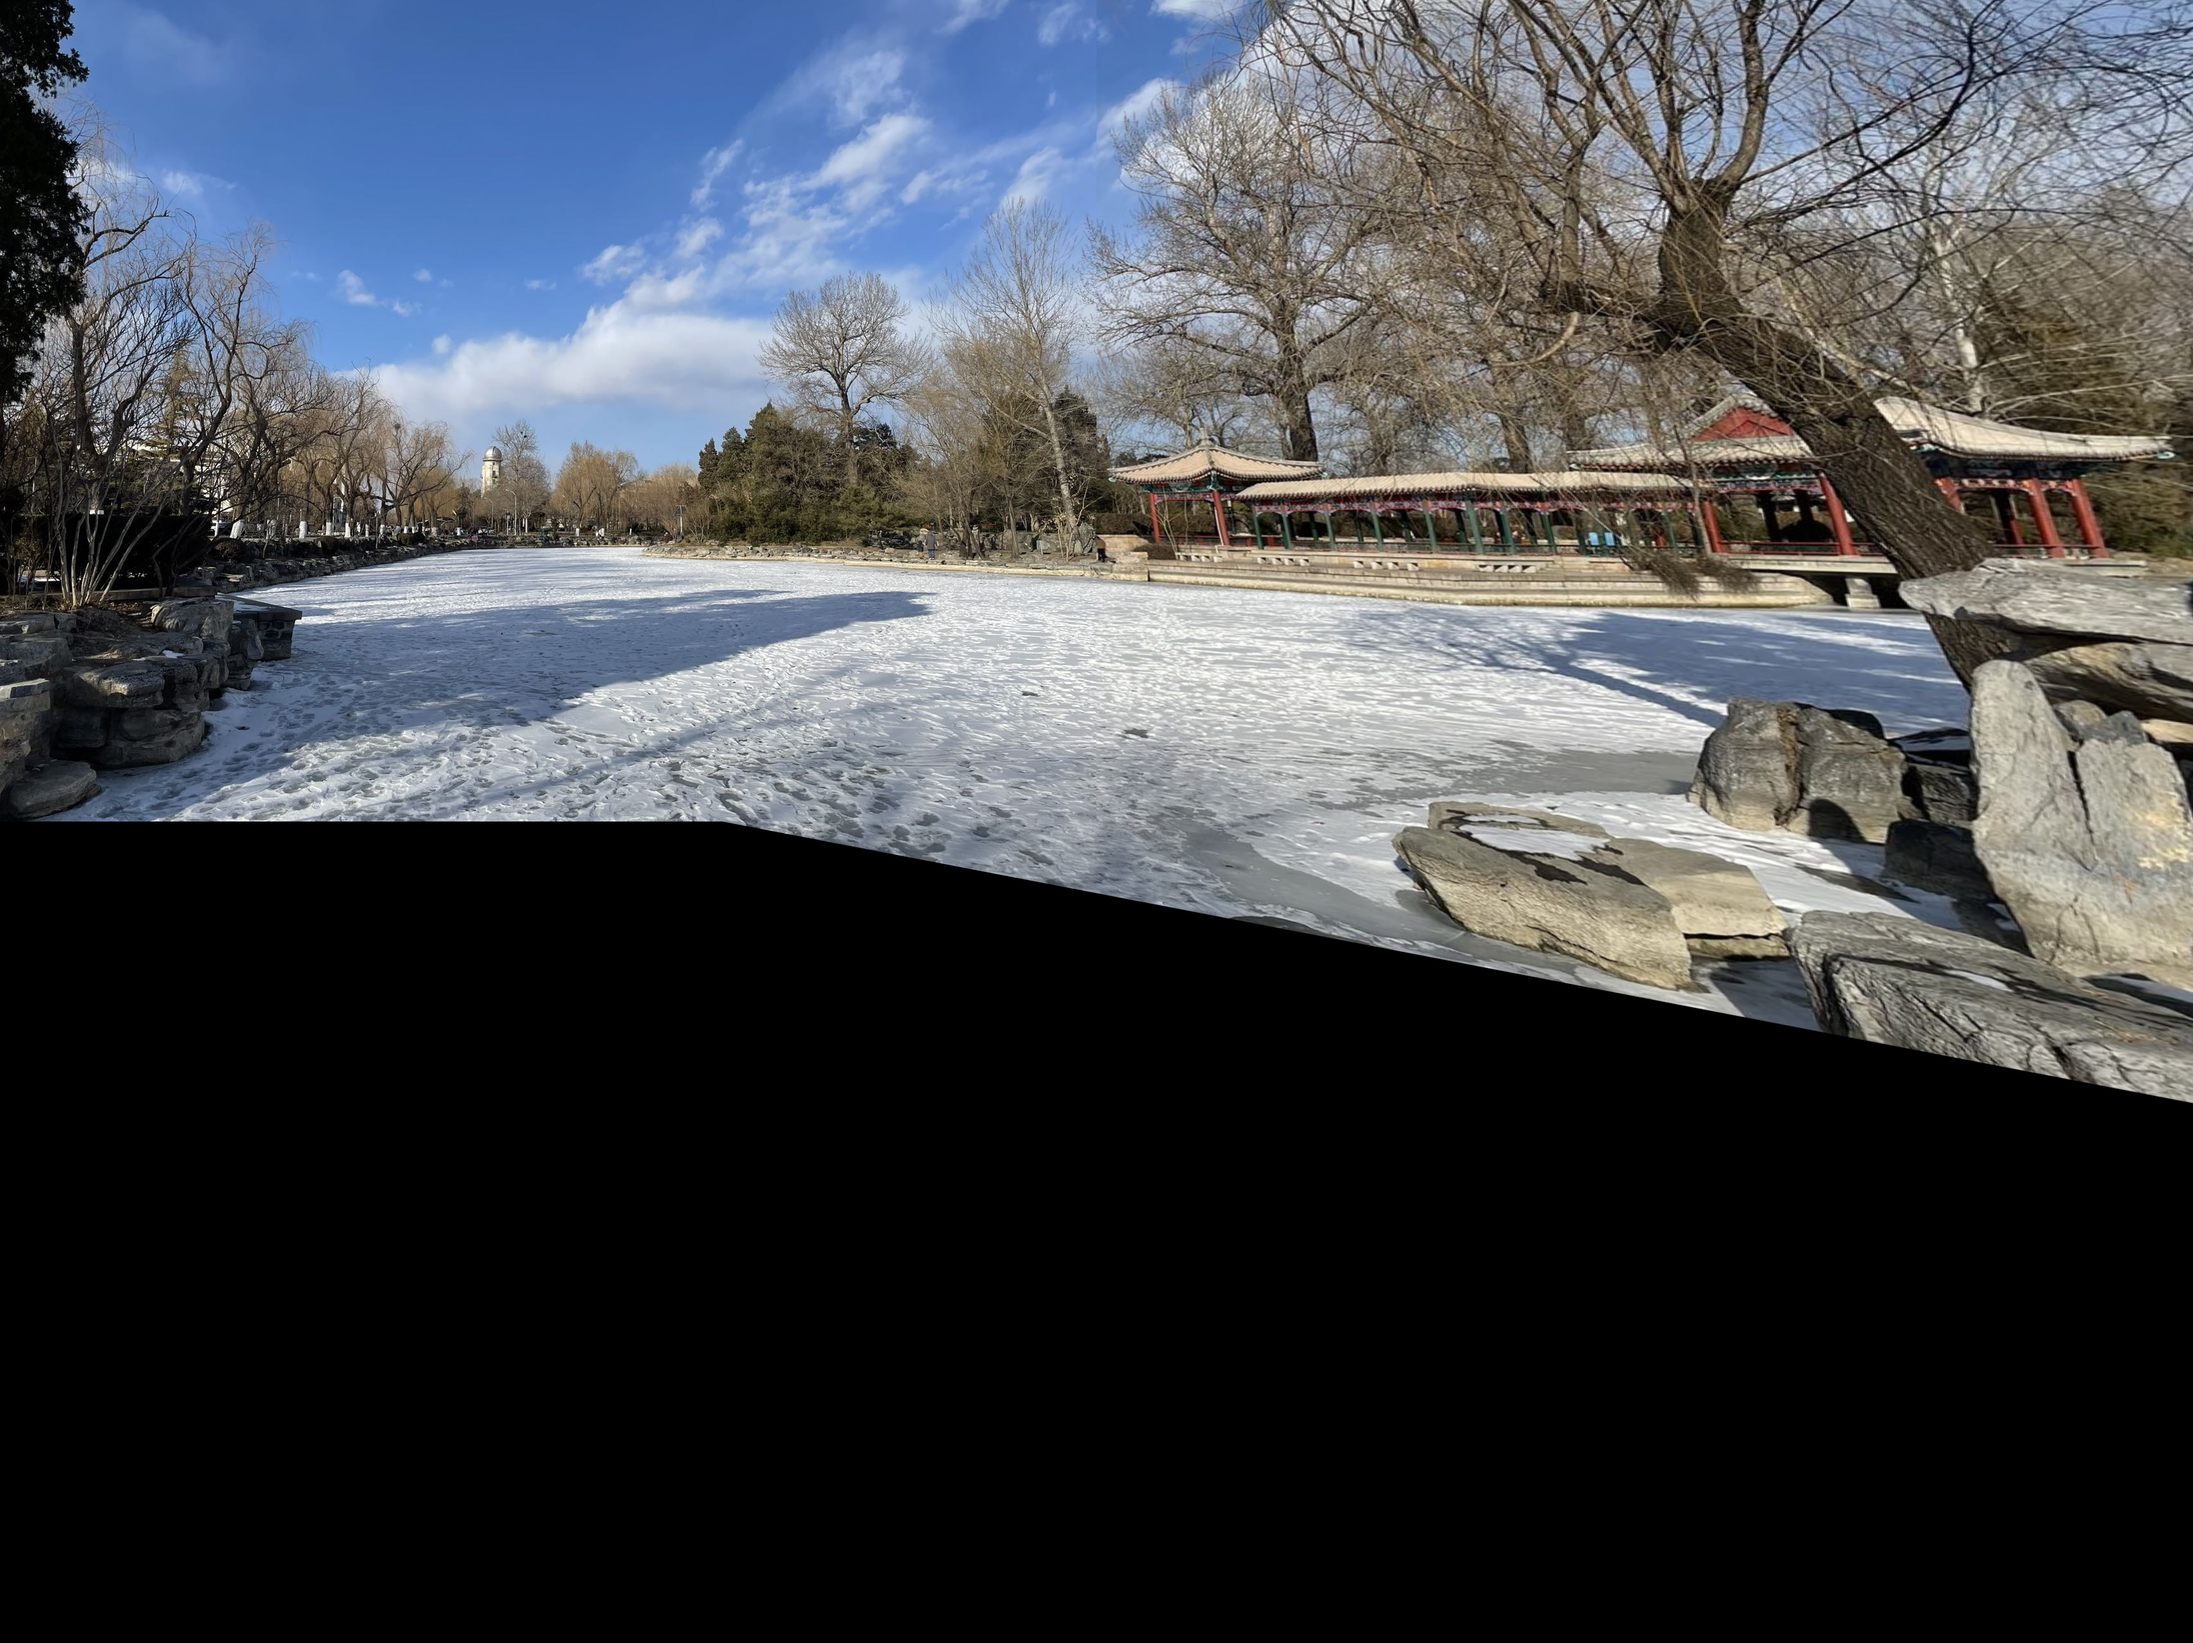
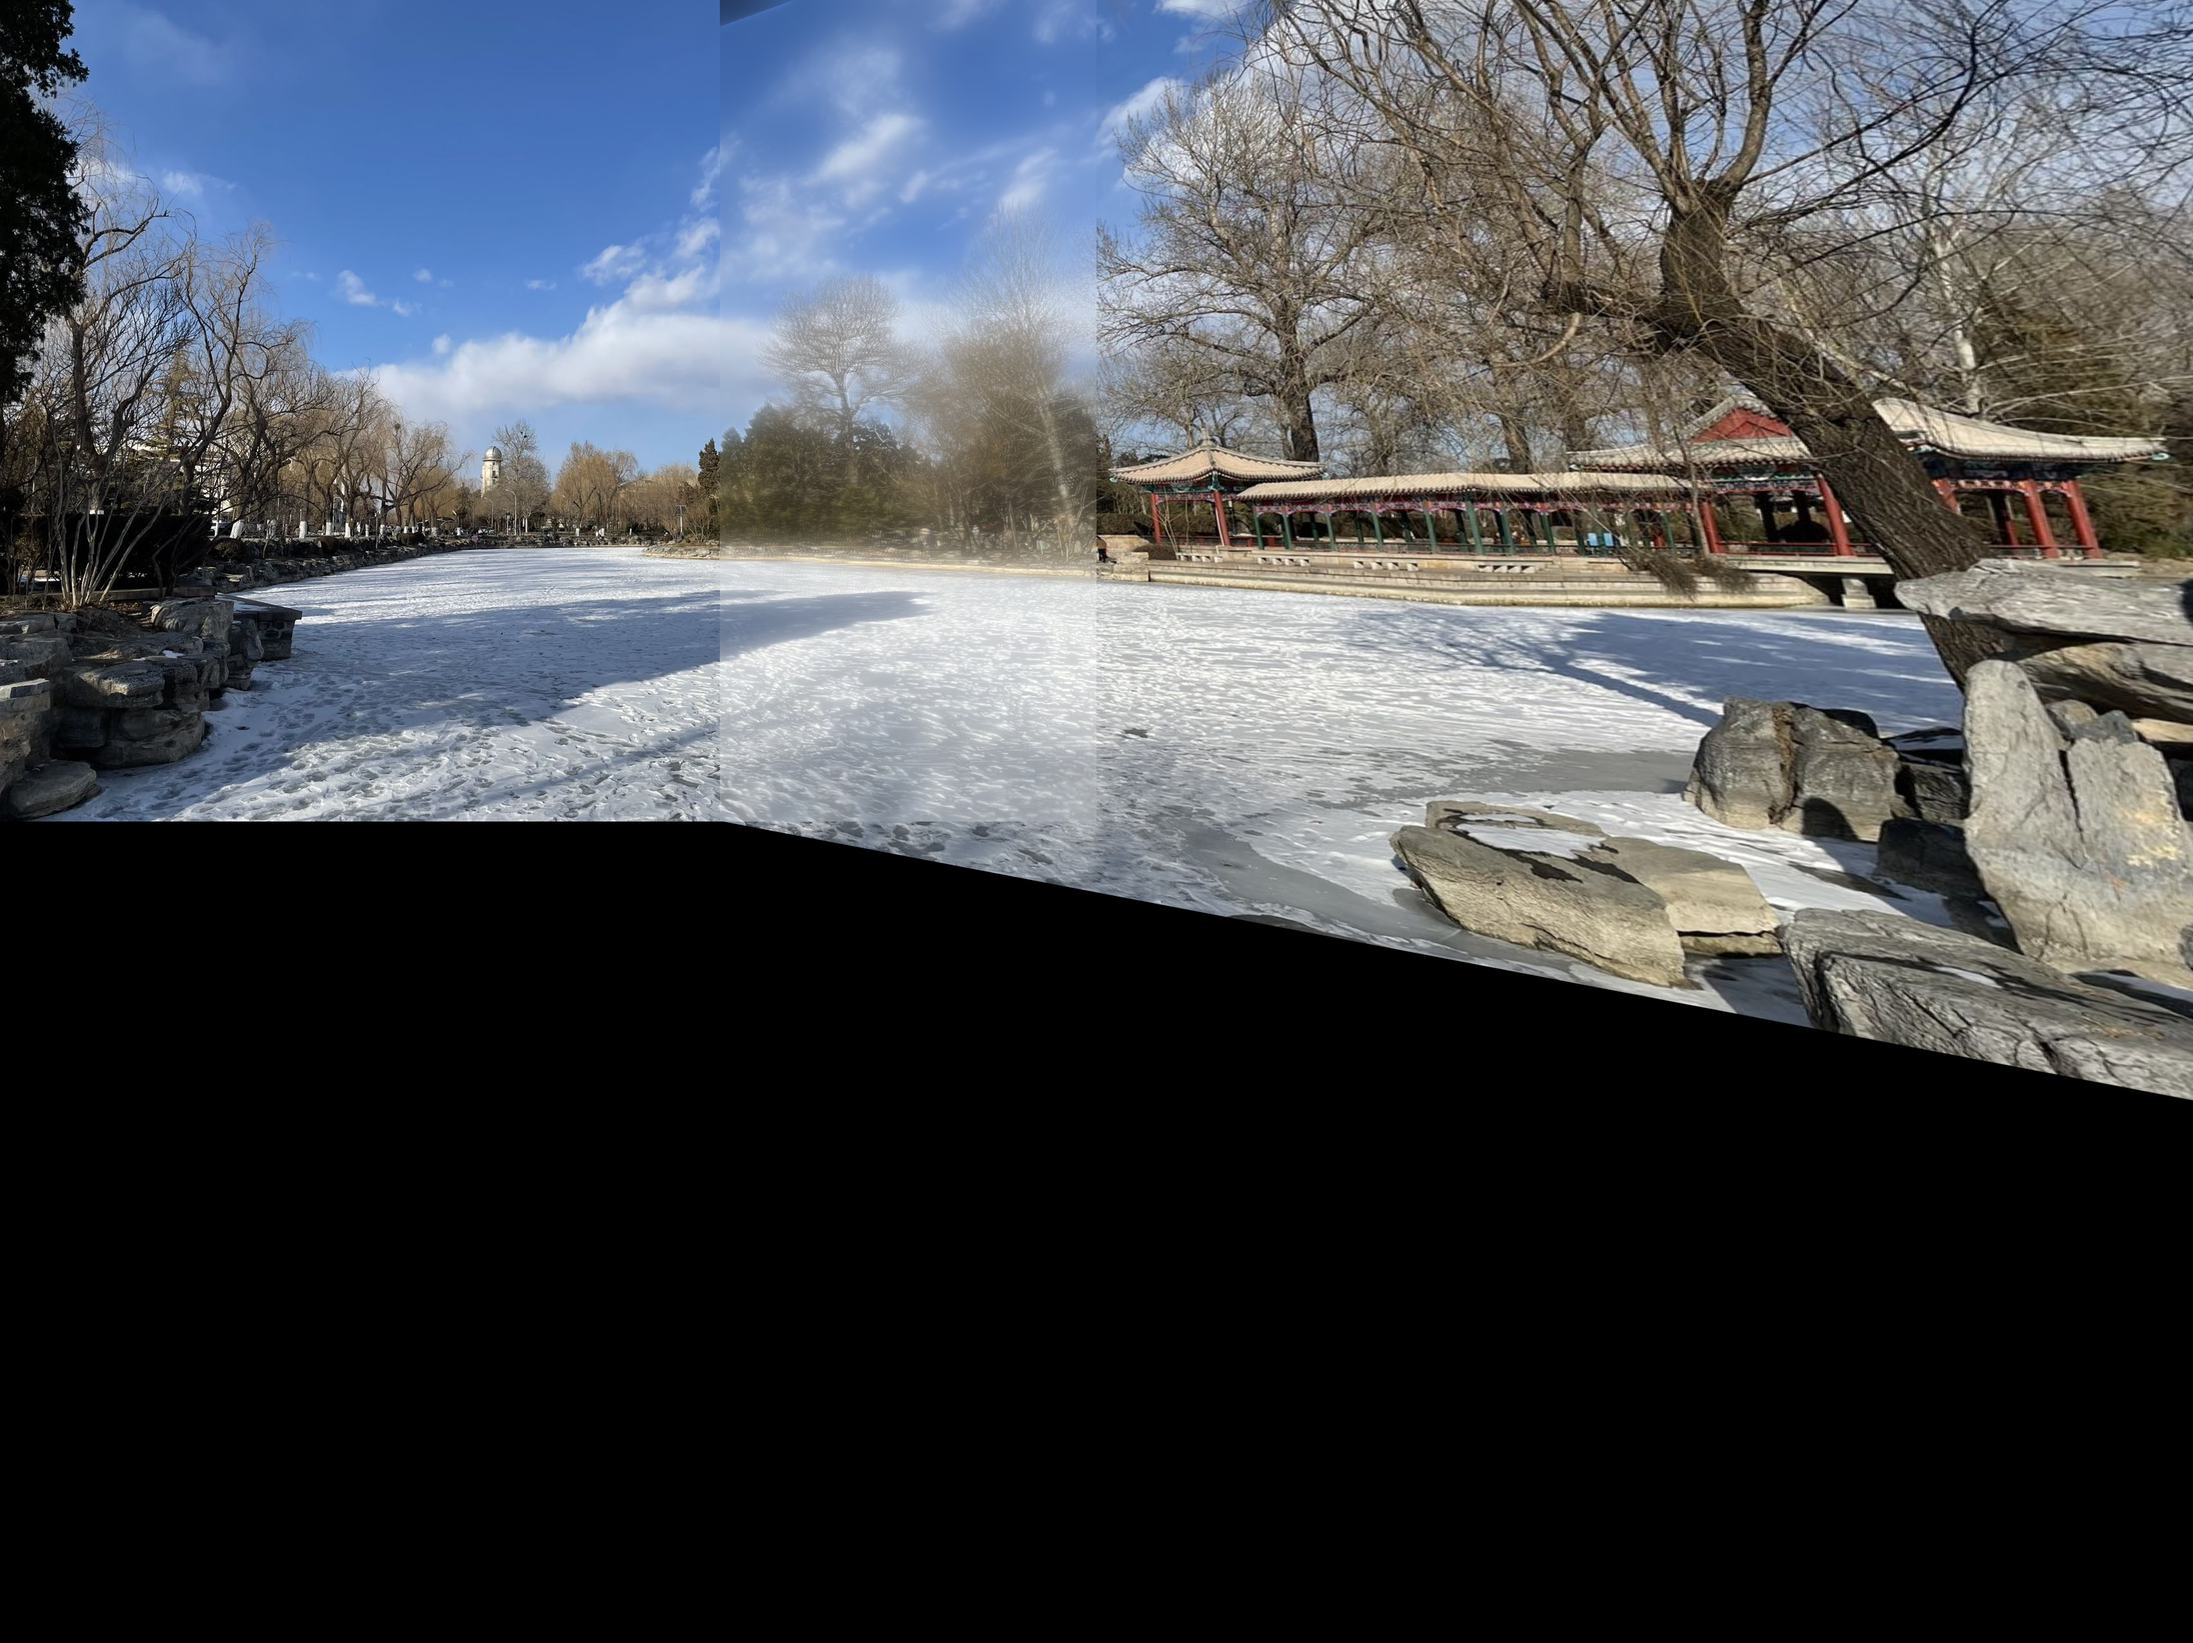
add parser & test

diff --git a/main.py b/main.py
@@ -5,27 +5,48 @@ from matplotlib import pyplot as plt
 from Stitcher import Stitcher
 from utils import cv_read, cv_show, cv_write
 from define import PIC_1, PIC_2, PIC_OUT, PIC_CV_RESULT
+import argparse
+
+def parse_args():
+    parser = argparse.ArgumentParser()
+    parser.add_argument('--pic1', type=str, default=PIC_1, help='path to the first image')
+    parser.add_argument('--pic2', type=str, default=PIC_2, help='path to the second image')
+    parser.add_argument('--pic_out', type=str, default=PIC_OUT, help='path to the output image')
+    parser.add_argument('--pic_cv_result', type=str, default=PIC_CV_RESULT, help='path to the output image')
+
+    parser.add_argument('--ratio', type=float, default=0.75, help='ratio of keypoints')
+    parser.add_argument('--reprojThresh', type=float, default=4.0, help='reprojection threshold')
+    parser.add_argument('--fusionMethod', type=str, default="default", help='method of fusion')
+    parser.add_argument('--showMatches', default=False, action='store_true', help='show matches or not')
+    parser.add_argument('--NotShowAny', default=False, action='store_true', help='do not show any image')
+    return parser.parse_args()
     
 def main():
+    args = parse_args()
+
     # read images
-    imageA = cv_read(PIC_1)
-    imageB = cv_read(PIC_2)
+    imageA = cv_read(args.pic1)
+    imageB = cv_read(args.pic2)
 
     # use my stitcher to stitch images
     stitcher = Stitcher()
-    (result, vis) = stitcher.stitch(images=(imageA, imageB), showMatches=True)
+    (result, vis) = stitcher.stitch(images=(imageA, imageB), ratio=args.ratio, 
+                                    reprojThresh=args.reprojThresh, fusionMethod=args.fusionMethod, 
+                                    showMatches=args.showMatches, showAny=(not args.NotShowAny))
 
     # show the result
-    cv_show("Result", result)
-    cv_write(PIC_OUT, result)
+    if not args.NotShowAny:
+        cv_show("Result", result)
+    cv_write(args.pic_out, result)
 
     # use OpenCV stitcher to stitch images
     stitcher = cv.Stitcher_create()
     (status, pano) = stitcher.stitch([imageA, imageB])
     print('OpenCV Stitcher Status: {}'.format(status))
     if status == cv.Stitcher_OK:
-        cv_show("OpenCV Stitcher", pano)
-        cv_write(PIC_CV_RESULT, pano)
+        if not args.NotShowAny:
+            cv_show("OpenCV Stitcher", pano)
+        cv_write(args.pic_cv_result, pano)
     
 if __name__ == '__main__':
     main()

diff --git a/Stitcher.py b/Stitcher.py
@@ -9,7 +9,7 @@ from define import *
 class Stitcher:
 
     # panoramic image stitching
-    def stitch(self, images, ratio=0.75, reprojThresh=4.0,showMatches=False):
+    def stitch(self, images, ratio=0.75, reprojThresh=4.0, fusionMethod="default", showMatches=False, showAny=True):
         print("==================Stitching begin==================")
         # unpack the images
         imageB, imageA = images
@@ -42,15 +42,24 @@ class Stitcher:
         # show the matches
         matchImage = self.drawMatches(imageA, imageB, kpA, kpB, matches, status)
         if showMatches:
-            cv_show("Keypoint Matches", matchImage)
+            if showAny:
+                cv_show("Keypoint Matches", matchImage)
             cv_write(PIC_MATCH, matchImage)
          
         # apply a perspective transform to stitch the images together
         result = cv.warpPerspective(imageA, H, (imageA.shape[1] + imageB.shape[1], imageA.shape[0] + imageB.shape[0]))  # TODO: decide the shape
-        cv_show('result A', result)
-        # result[0:imageB.shape[0], 0:imageB.shape[1]] = imageB
-        result = Fusion().weigh_fussion(result, imageB)
-        cv_show('result A+B', result)
+        if showAny:
+            cv_show('result A', result)
+        
+        fusion = Fusion()
+        if fusionMethod == "poisson":
+            result = fusion.poisson(result, imageB)
+        elif fusionMethod == "weight": 
+            result = fusion.weigh_fussion(result, imageB)
+        elif fusionMethod == "multiband":
+            result = fusion.Multiband(result, imageB)
+        else:
+            result[0:imageB.shape[0], 0:imageB.shape[1]] = imageB
 
         print("==================Stitching end==================")
         return (result, matchImage)

diff --git a/define.py b/define.py
@@ -1,5 +1,5 @@
-PIC_TAG = 'road'
-PIC_SUFFIX = '.png'
+PIC_TAG = 'snow'
+PIC_SUFFIX = '.jpg'
 PIC_1 = 'pics/{}/{}_left{}'.format(PIC_TAG, PIC_TAG, PIC_SUFFIX)
 PIC_2 = 'pics/{}/{}_right{}'.format(PIC_TAG, PIC_TAG, PIC_SUFFIX)
 PIC_SIFT = 'pics/{}/{}_sift{}'.format(PIC_TAG, PIC_TAG, PIC_SUFFIX)
